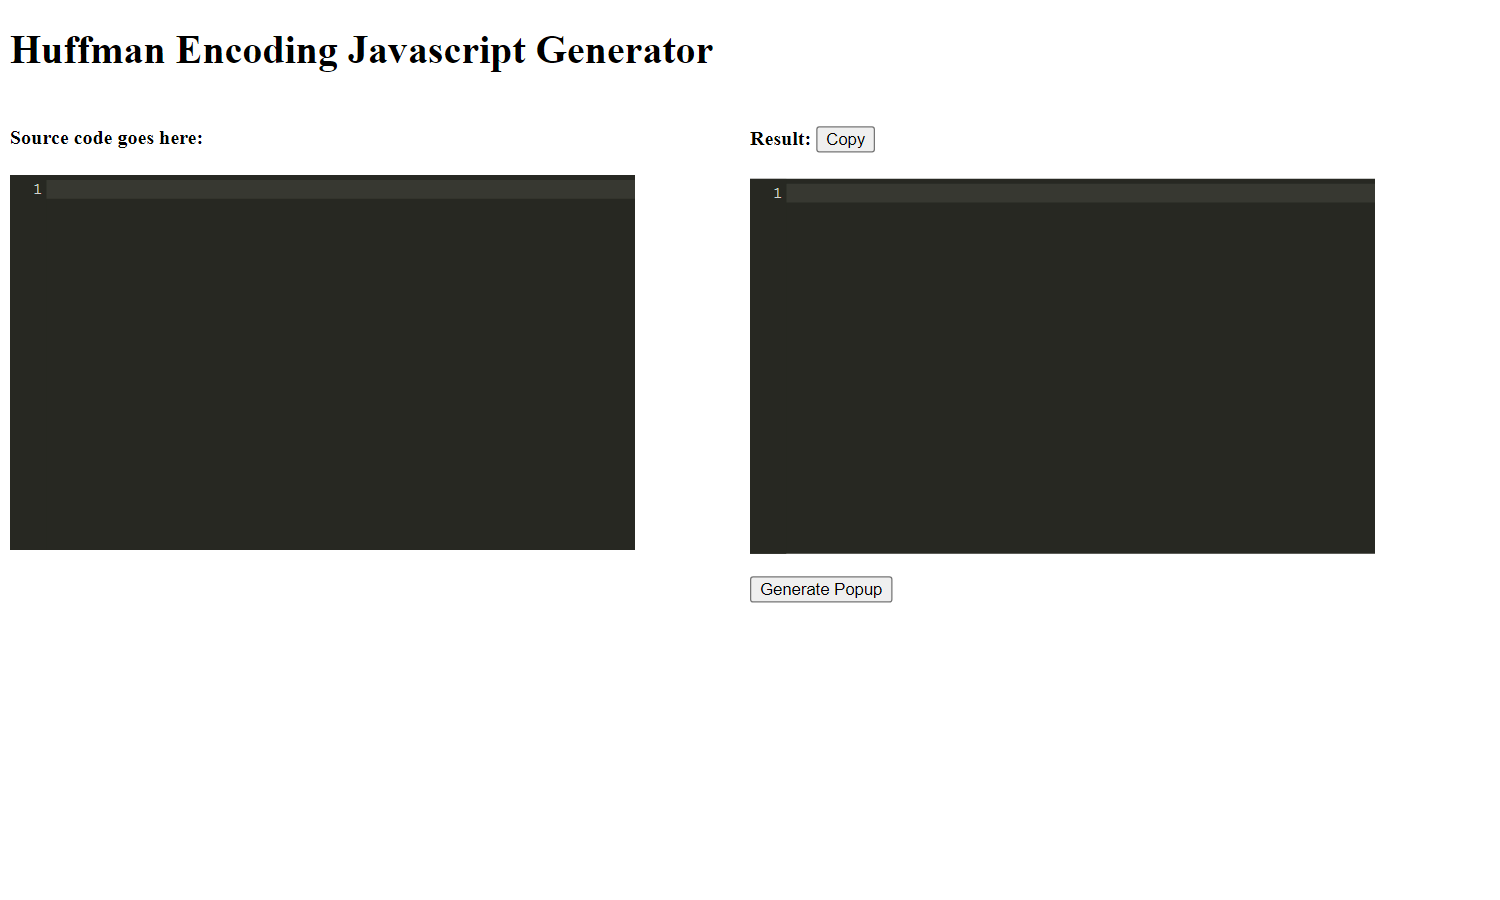
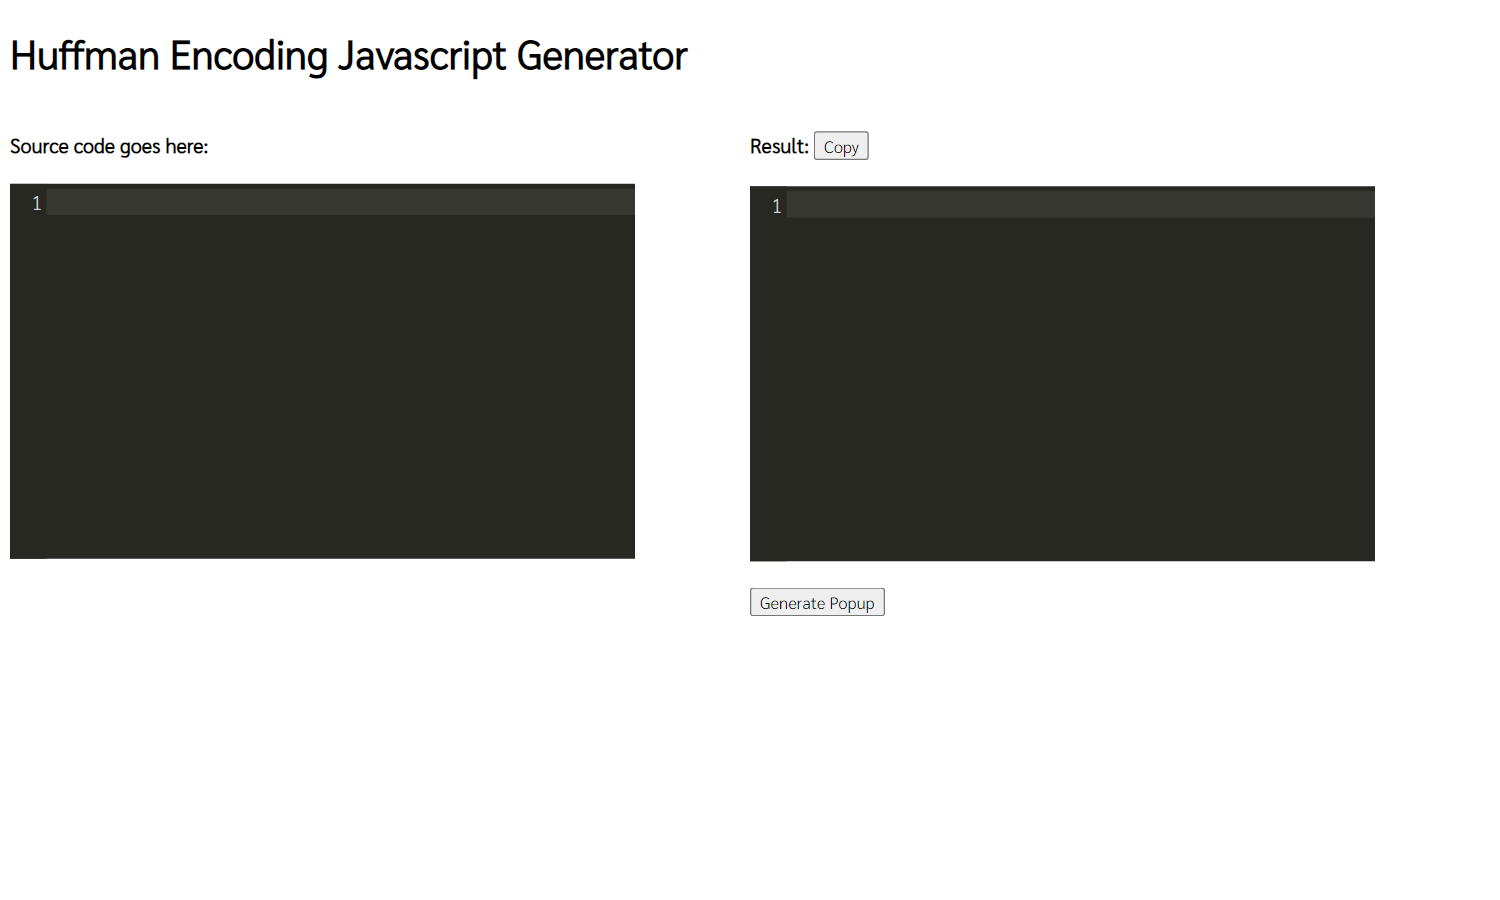
pushed by scripter

diff --git a/projects/huffman-generator/index.html b/projects/huffman-generator/index.html
@@ -1,1 +1,5 @@
-<!DOCTYPE html><html lang="en"><head><meta charset="UTF-8"><meta http-equiv="X-UA-Compatible" content="IE=edge"><meta name="viewport" content="width=device-width,initial-scale=1"><title>Document</title><script src="https://cdnjs.cloudflare.com/ajax/libs/codemirror/5.32.0/codemirror.min.js"></script><script src="https://cdnjs.cloudflare.com/ajax/libs/js-beautify/1.14.0/beautify.min.js"></script><script src="../../api/vue.js"></script><script src="https://cdn.jsdelivr.net/npm/vue-codemirror@4.0.0/dist/vue-codemirror.js"></script><script src="https://cdnjs.cloudflare.com/ajax/libs/codemirror/5.32.0/mode/javascript/javascript.min.js"></script><script src="https://cdnjs.cloudflare.com/ajax/libs/codemirror/5.32.0/addon/merge/merge.min.js"></script><script src="https://cdnjs.cloudflare.com/ajax/libs/codemirror/5.32.0/addon/selection/active-line.min.js"></script><!-- Google diff match patch --><script src="https://cdnjs.cloudflare.com/ajax/libs/diff_match_patch/20121119/diff_match_patch.js"></script><!-- Include stylesheet --><link href="https://cdnjs.cloudflare.com/ajax/libs/codemirror/5.32.0/codemirror.min.css" rel="stylesheet"><link href="https://cdnjs.cloudflare.com/ajax/libs/codemirror/5.32.0/addon/merge/merge.min.css" rel="stylesheet"><link href="https://cdnjs.cloudflare.com/ajax/libs/codemirror/5.32.0/theme/monokai.min.css" rel="stylesheet"></head><body><div id="app"><h1>Huffman Encoding Javascript Generator</h1><div style="width: 50%; float: left;"><h4>Source code goes here:</h4><codemirror @input="generate($event)" v-model="code" :options="cmOption" style="max-width: 500px; width: 100%; height: 300px;"></codemirror></div><div style="width: 50%; float: left;"><h4>Result: <button @click="copy">Copy</button></h4><codemirror v-model="encoded" id="encoded" :options="cmOption" style="max-width: 500px; width: 100%; height: 300px;"></codemirror><br><button @click="popup">Generate Popup</button> <b>{{info}}</b></div></div><script src="./_ARTTYJS/enc.js"></script></body></html>
+<!DOCTYPE html><html lang="en"><head><meta charset="UTF-8"><meta http-equiv="X-UA-Compatible" content="IE=edge"><meta name="viewport" content="width=device-width,initial-scale=1"><title>Document</title><script src="https://cdnjs.cloudflare.com/ajax/libs/codemirror/5.32.0/codemirror.min.js"></script><script src="https://cdnjs.cloudflare.com/ajax/libs/js-beautify/1.14.0/beautify.min.js"></script><script src="../../api/vue.js"></script><script src="https://cdn.jsdelivr.net/npm/vue-codemirror@4.0.0/dist/vue-codemirror.js"></script><script src="https://cdnjs.cloudflare.com/ajax/libs/codemirror/5.32.0/mode/javascript/javascript.min.js"></script><script src="https://cdnjs.cloudflare.com/ajax/libs/codemirror/5.32.0/addon/merge/merge.min.js"></script><script src="https://cdnjs.cloudflare.com/ajax/libs/codemirror/5.32.0/addon/selection/active-line.min.js"></script><!-- Google diff match patch --><script src="https://cdnjs.cloudflare.com/ajax/libs/diff_match_patch/20121119/diff_match_patch.js"></script><!-- Include stylesheet --><link href="https://cdnjs.cloudflare.com/ajax/libs/codemirror/5.32.0/codemirror.min.css" rel="stylesheet"><link href="https://cdnjs.cloudflare.com/ajax/libs/codemirror/5.32.0/addon/merge/merge.min.css" rel="stylesheet"><link href="https://cdnjs.cloudflare.com/ajax/libs/codemirror/5.32.0/theme/monokai.min.css" rel="stylesheet"><style>@import url('https://fonts.googleapis.com/css2?family=Sarabun:ital,wght@0,200;0,300;1,200&display=swap');
+
+        * {
+            font-family: 'Sarabun', sans-serif;
+        }</style></head><body><div id="app"><h1>Huffman Encoding Javascript Generator</h1><div style="width: 50%; float: left;"><h4>Source code goes here:</h4><codemirror @input="generate($event)" v-model="code" :options="cmOption" style="max-width: 500px; width: 100%; height: 300px;"></codemirror></div><div style="width: 50%; float: left;"><h4>Result: <button @click="copy">Copy</button></h4><codemirror v-model="encoded" id="encoded" :options="{...cmOption,readonly: true}" style="max-width: 500px; width: 100%; height: 300px;"></codemirror><br><button @click="popup">Generate Popup</button> <b>{{info}}</b></div></div><script src="./_ARTTYJS/enc.js"></script></body></html>

diff --git a/index.html b/index.html
@@ -1,4 +1,7 @@
-<!DOCTYPE html><html lang="en"><head><meta charset="UTF-8"><meta http-equiv="X-UA-Compatible" content="IE=edge"><meta name="viewport" content="width=device-width,initial-scale=1"><title>Sirawit Pratoomsuwan</title></head><body><div id="app">{{projects}}<h1>My projects</h1><ul><li v-for="project in projects" :key="JSON.stringify(project)"><a :href="project.main">{{project.name}}</a><img :src="project.preview"></li></ul></div><script src="./api/vue.js"></script><script>new Vue({
+<!DOCTYPE html><html lang="en"><head><meta charset="UTF-8"><meta http-equiv="X-UA-Compatible" content="IE=edge"><meta name="viewport" content="width=device-width,initial-scale=1"><title>Sirawit Pratoomsuwan</title><style>@import url('https://fonts.googleapis.com/css2?family=Sarabun:ital,wght@0,200;0,300;1,200&display=swap');
+        *{
+            font-family: 'Sarabun', sans-serif;
+        }</style></head><body><div id="app"><h1>My projects</h1><ul><li v-for="project in projects" :key="JSON.stringify(project)"><a :href="project.main">{{project.name}}</a><br><img :src="project.preview" style="max-width: 200px; width: 100%;"></li></ul></div><script src="./api/vue.js"></script><script>new Vue({
             el: '#app',
             data: {
                 projects: []
